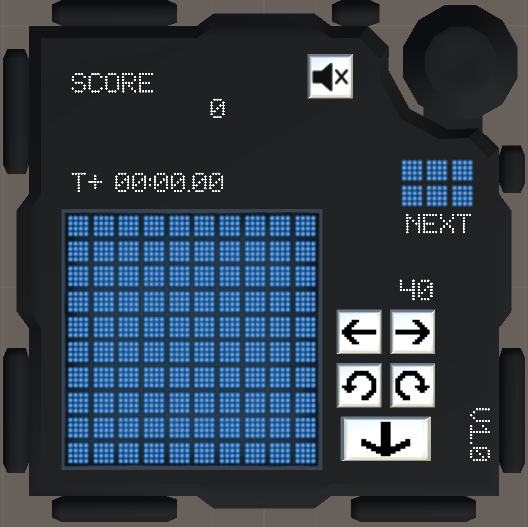
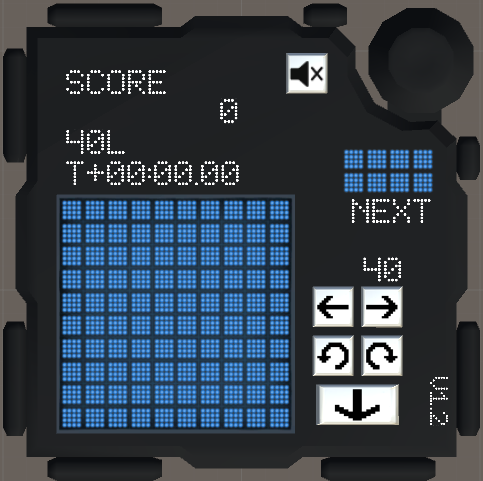
tetrisSprint v1.2:- Disable rotation variation

diff --git a/KtaneTetrisSprint/Assets/tetrisSprint.cs b/KtaneTetrisSprint/Assets/tetrisSprint.cs
@@ -37,7 +37,6 @@ public class tetrisSprint : MonoBehaviour {
 
 	private KMBombModule Module;
 	public KMAudio Audio;
-
 	private GameObject[,] ObjectGrid;
 	public GameObject[] ScreenGrid;
 	private Tetromino tetr;
@@ -262,15 +261,16 @@ public class tetrisSprint : MonoBehaviour {
 
 		tetr = null;
 		upNext = Random.Range(0, 7);
-		linesLeft = FindThreshold();
-		targetDisplay.text = linesLeft.ToString() + "L";
+		
+
 		UpdateGrid ();
+
 	}
 
 	void Start()
 	{
 		moduleId = moduleIdCounter++;
-
+		Module.OnActivate += delegate { linesLeft = FindThreshold(); targetDisplay.text = linesLeft.ToString() + "L";}; 
 	}
 
 	protected void OnActivation()
@@ -495,7 +495,7 @@ public class tetrisSprint : MonoBehaviour {
         catch (JsonReaderException e)
         {
             Debug.LogFormat("[Tetris Sprint #{0}] JSON reading failed with error {1}, using default number.", moduleId, e.Message);
-            return 10000;
+            return 40;
         }
     }
 

diff --git a/KtaneTetrisSprint/Assets/Scripts/Tetromino.cs b/KtaneTetrisSprint/Assets/Scripts/Tetromino.cs
@@ -99,7 +99,7 @@ public class Tetromino {
 			break;
 		}
 
-		rotation = Random.Range (0, 4);
+		//rotation = Random.Range (0, 4);
 		column = 3;
 		this.gridWidth = gridWidth;
 		this.board = board;
